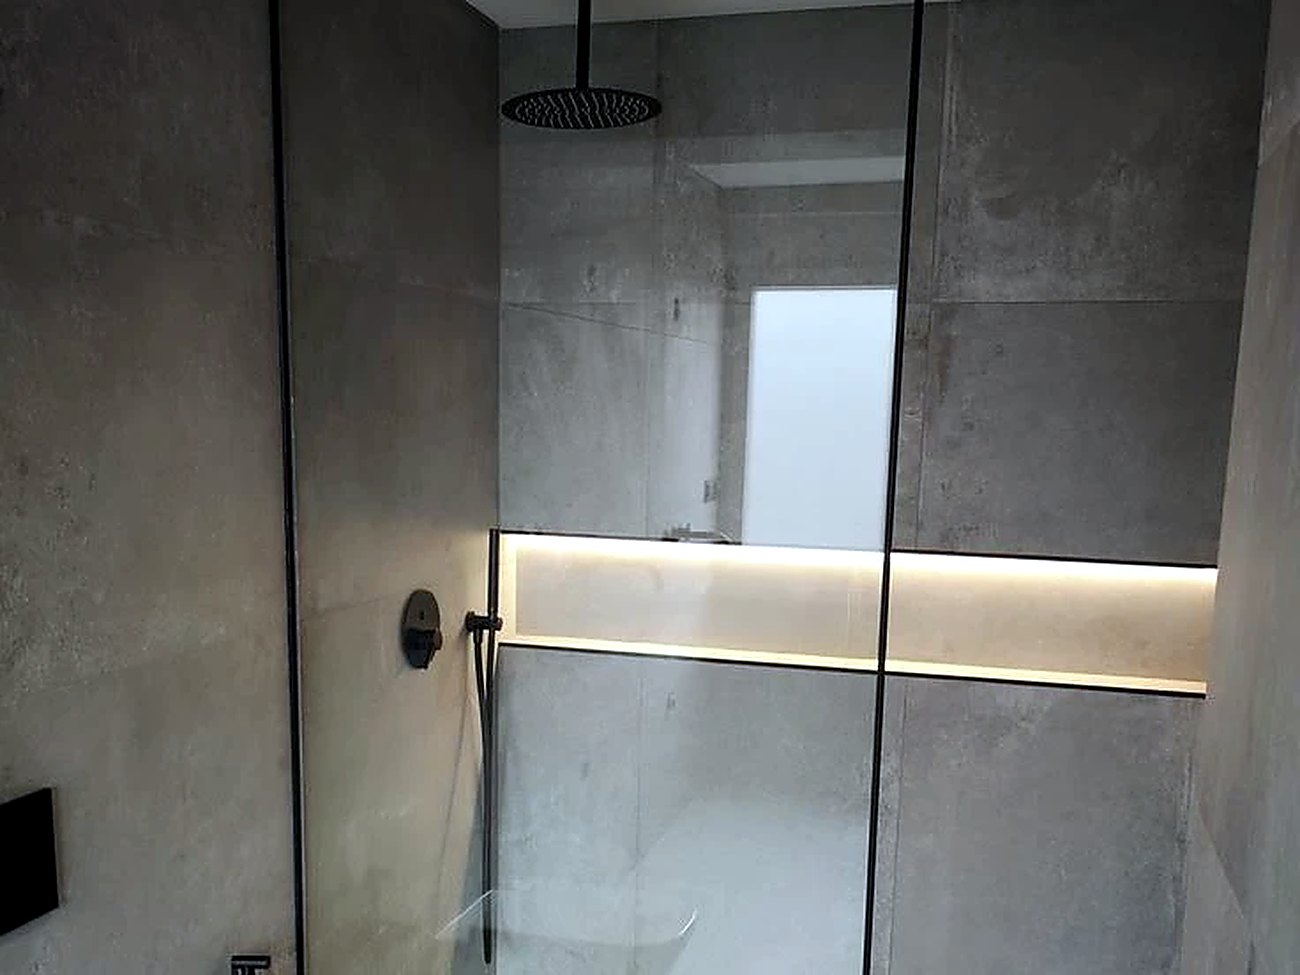
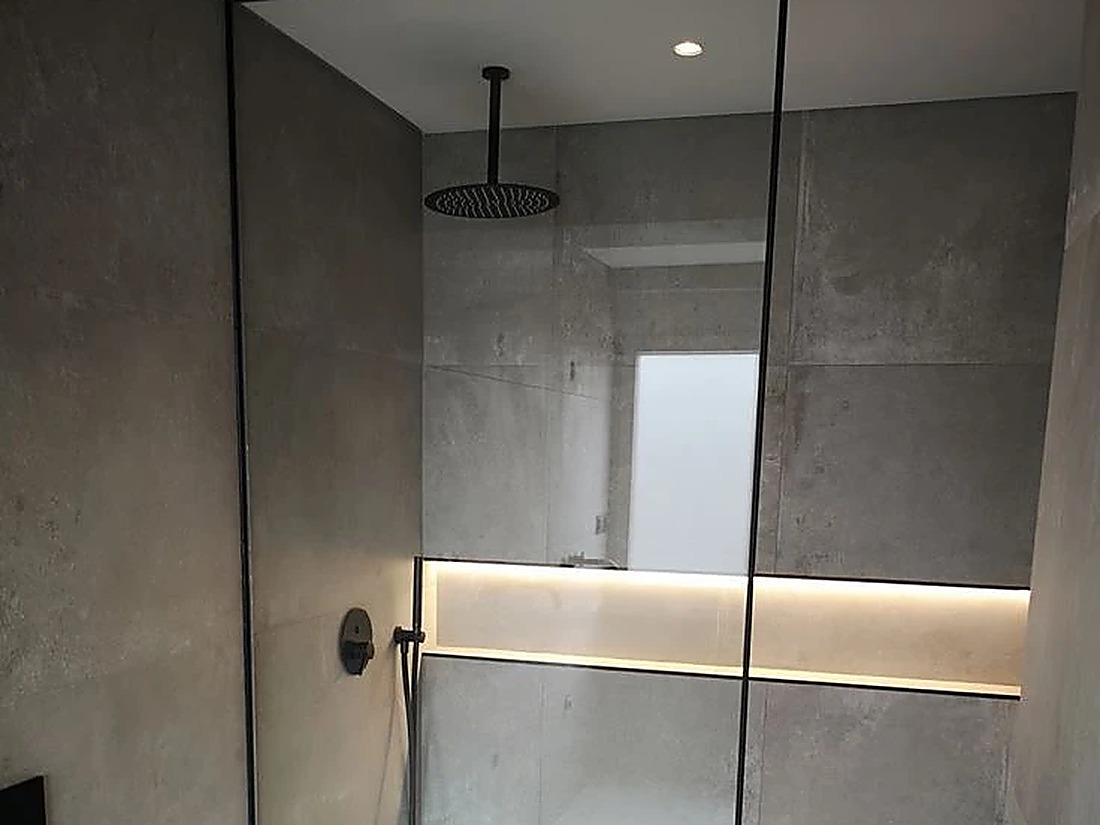
Финальная приёмка: перекадрированы 2 самых обрезанных фото hero (dush-43-3/4) без апскейла; починена битая ссылка меню #works -> #projects; чекбокс согласия получил name; убрана мёртвая ссылка политики; удалено 26 неиспользуемых картинок (-4.3 MB)

diff --git a/index.html b/index.html
@@ -519,7 +519,7 @@ footer .bottom{display:flex;justify-content:space-between;gap:16px;flex-wrap:wra
       <a href="#catalog">Конструкции</a>
       <a href="#services">Услуги</a>
       <a href="#steps">Как работаем</a>
-      <a href="#works">Работы</a>
+      <a href="#projects">Работы</a>
       <a href="#contact">Контакты</a>
     </nav>
     <div class="right">
@@ -965,7 +965,7 @@ footer .bottom{display:flex;justify-content:space-between;gap:16px;flex-wrap:wra
         <label for="msg">Комментарий (не обязательно)</label>
         <textarea id="msg" name="Комментарий" placeholder="Размеры, пожелания, адрес объекта"></textarea>
       </div>
-      <label class="consent"><input type="checkbox" required> Согласен на обработку персональных данных и с <a href="#" style="color:var(--accent)">политикой конфиденциальности</a>.</label>
+      <label class="consent"><input type="checkbox" name="Согласие на обработку данных" value="Да" required> Согласен на обработку персональных данных и с <span style="color:var(--accent)">политикой конфиденциальности</span>.</label>
       <input type="hidden" name="_subject" value="Заявка с сайта СтеклА">
       <input type="hidden" name="_captcha" value="false">
       <input type="hidden" name="_template" value="table">

diff --git a/v2.html b/v2.html
@@ -519,7 +519,7 @@ footer .bottom{display:flex;justify-content:space-between;gap:16px;flex-wrap:wra
       <a href="#catalog">Конструкции</a>
       <a href="#services">Услуги</a>
       <a href="#steps">Как работаем</a>
-      <a href="#works">Работы</a>
+      <a href="#projects">Работы</a>
       <a href="#contact">Контакты</a>
     </nav>
     <div class="right">
@@ -965,7 +965,7 @@ footer .bottom{display:flex;justify-content:space-between;gap:16px;flex-wrap:wra
         <label for="msg">Комментарий (не обязательно)</label>
         <textarea id="msg" name="Комментарий" placeholder="Размеры, пожелания, адрес объекта"></textarea>
       </div>
-      <label class="consent"><input type="checkbox" required> Согласен на обработку персональных данных и с <a href="#" style="color:var(--accent)">политикой конфиденциальности</a>.</label>
+      <label class="consent"><input type="checkbox" name="Согласие на обработку данных" value="Да" required> Согласен на обработку персональных данных и с <span style="color:var(--accent)">политикой конфиденциальности</span>.</label>
       <input type="hidden" name="_subject" value="Заявка с сайта СтеклА">
       <input type="hidden" name="_captcha" value="false">
       <input type="hidden" name="_template" value="table">
